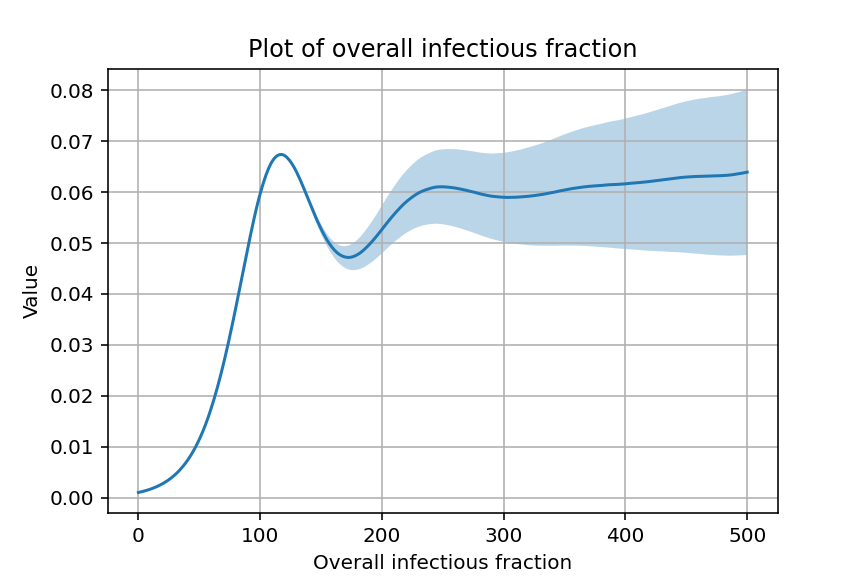
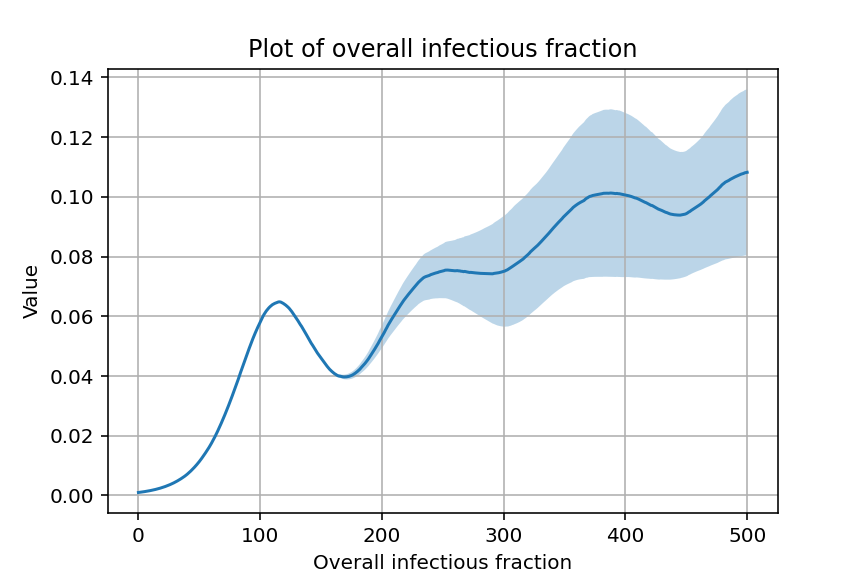
Inter jump times can now be plotted

Changed region(s): [[0.0312, 0.125, 0.9062, 0.8125], [0.0625, 0.8125, 0.9062, 0.875]]

diff --git a/function_vd.py b/function_vd.py
@@ -874,6 +874,64 @@ class stats_functions_of_variable_dimension():
         
         return fig
     
+    def plot_inter_jump_times(self, number=None, density=False, separate=True,
+                        separate_plots=False, title=None, legend=False,
+                        xlabel=None, ylabel=None, grid=False):
+        
+        if not self.collect_jump_times:
+            raise ValueError(f'Jump times have not been in collected in \
+                             {self}')
+            
+        fig = plt.figure()
+        
+        inter_jump_times = []
+
+        for i, jump_times in enumerate(self.jump_times):
+            inter_jump_times.append(np.zeros(len(jump_times)))
+            if len(jump_times)>0:
+                inter_jump_times[i][0] = jump_times[0]
+                if len(jump_times)>1:
+                    inter_jump_times[i][1:] = jump_times[1:] - jump_times[:-1]
+            
+        if not number:
+            plt.hist(np.concatenate(inter_jump_times), density=density)
+        elif isinstance(number, (list, np.ndarray, tuple)):
+            if separate_plots or separate:
+                for index in number:
+                    index -= 1
+                    jump_times = [item[index] for item in inter_jump_times
+                                  if index < len(item)]
+                    plt.hist(jump_times, density=density,
+                             label=f'Jump {index+1}')
+                    if separate_plots:
+                        plt.figure()
+            else:
+                jump_times = []
+                for index in number:
+                    index -= 1
+                    jump_times.append([item[index] for item in inter_jump_times
+                                       if index < len(item)])
+                plt.hist(jump_times, density=density)
+        elif isinstance(number, (int, float, np.float16, np.float32,
+                                 np.float64)):
+            number -= 1
+            jump_times = [item[int(number)] for item in inter_jump_times
+                          if int(number) < len(item)]
+            plt.hist(jump_times, density=density)
+            
+        if title:
+            plt.title(title)
+        if legend:
+            plt.legend()
+        if xlabel:
+            plt.xlabel(xlabel)
+        if ylabel:
+            plt.ylabel(ylabel)
+        if grid:
+            plt.grid()
+        
+        return fig
+    
     
     def plot_cefs(self, sigma=2, labels=None, title='Plot of cefs',
                   legend=False, xlabel='Time', ylabel='Value', grid=False):

diff --git a/Examples/SIR Mutation Model/sir_model_expected_mutation_time.py b/Examples/SIR Mutation Model/sir_model_expected_mutation_time.py
@@ -38,7 +38,7 @@ mutation_time_pdf = (m * i * np.exp(-m * r / gamma)) / (1 - np.exp(-m * r[-1] / 
 mutation_time_cdf = np.cumsum((m * i * np.exp(-m * r / gamma)) / (1 - np.exp(-m * r[-1] / gamma)))
 expected_mutation_time = np.cumsum(t_eval * (m * i * np.exp(-m * r / gamma)) / (1 - np.exp(-m * r[-1] / gamma)))
 plt.plot(t_eval, i)
-plt.axvline(40)
+plt.axvline(expected_mutation_time[-1])
 plt.show()
 plt.plot(t_eval, expected_mutation_time)
 plt.show()
@@ -74,3 +74,38 @@ plt.xlabel('Wert')
 plt.ylabel('Häufigkeit')
 plt.grid()
 plt.show()
+
+def lambda_2(t, tau):
+    
+    if isinstance(t, (list, np.ndarray)):
+        lambda2 = np.array([lambda_2(t, tau) for t in t])
+        return lambda2
+    
+    if isinstance(tau, (list, np.ndarray)):
+        lambda2 = np.array([lambda_2(t, tau) for tau in tau])
+        return lambda2
+    
+    if t>=tau:
+        if t>=len(i):
+            lambda2 = m * i[-1] + m * (1 - i[-1]) * i[t-tau]
+        else:
+            lambda2 = m * i[t] + m * (1 - i[t]) * i[t-tau]
+    else:
+        lambda2 = 0
+        
+    return lambda2
+
+    
+integration_value = np.zeros((len(t_eval), len(t_eval)))
+t_eval = t_eval.astype(int)
+
+for j, tau in enumerate(t_eval):
+    integration_value[j] = (lambda_2(t_eval, tau) 
+                         * np.exp(-np.cumsum(lambda_2(t_eval, tau)))
+                         / (1 - np.exp(-np.sum(lambda_2(t_eval + tau, tau))))
+                         * mutation_time_pdf[j])
+second_mutation_time_pdf = np.sum(integration_value, axis=0)
+
+plt.plot(t_eval, second_mutation_time_pdf)
+plt.show()
+plt.plot(t_eval, lambda_2(t_eval, 200) * np.exp(-np.cumsum(lambda_2(t_eval, 200))) * mutation_time_pdf[200])

diff --git a/Examples/SIR Mutation Model/sir_mutation_model.py b/Examples/SIR Mutation Model/sir_mutation_model.py
@@ -173,7 +173,7 @@ gamma = .1
 t_span = (0, 500)
 beta = .15
 mutation_rate = .2
-sir_mutation_stats = solve_shsvd(sir_model, mutation_probability, transition_function, x0, t_span, mutation_rate, norm_order=[1, 2], collect_jump_times=True, flow_args=(beta, gamma), jump_rate_args=(mutation_rate, ), iterations=500, custom_evaluation_functions=[total_infectious])
+sir_mutation_stats = solve_shsvd(sir_model, mutation_probability, transition_function, x0, t_span, mutation_rate, norm_order=[1, 2], collect_jump_times=True, flow_args=(beta, gamma), jump_rate_args=(mutation_rate, ), iterations=10, custom_evaluation_functions=[total_infectious])
 fig = sir_mutation_stats.plot_cefs()
 
 plt.figure(fig)
@@ -183,6 +183,7 @@ plt.xlabel('Overall infectious fraction')
 plt.savefig('Example.png')
 plt.show()
 
+sir_mutation_stats.plot_inter_jump_times()
 
 # df_empw = pd.DataFrame(final_i_values, index=betas, columns=mutation_rates)
 # df_empw.to_csv('Mean_final_i.csv')
